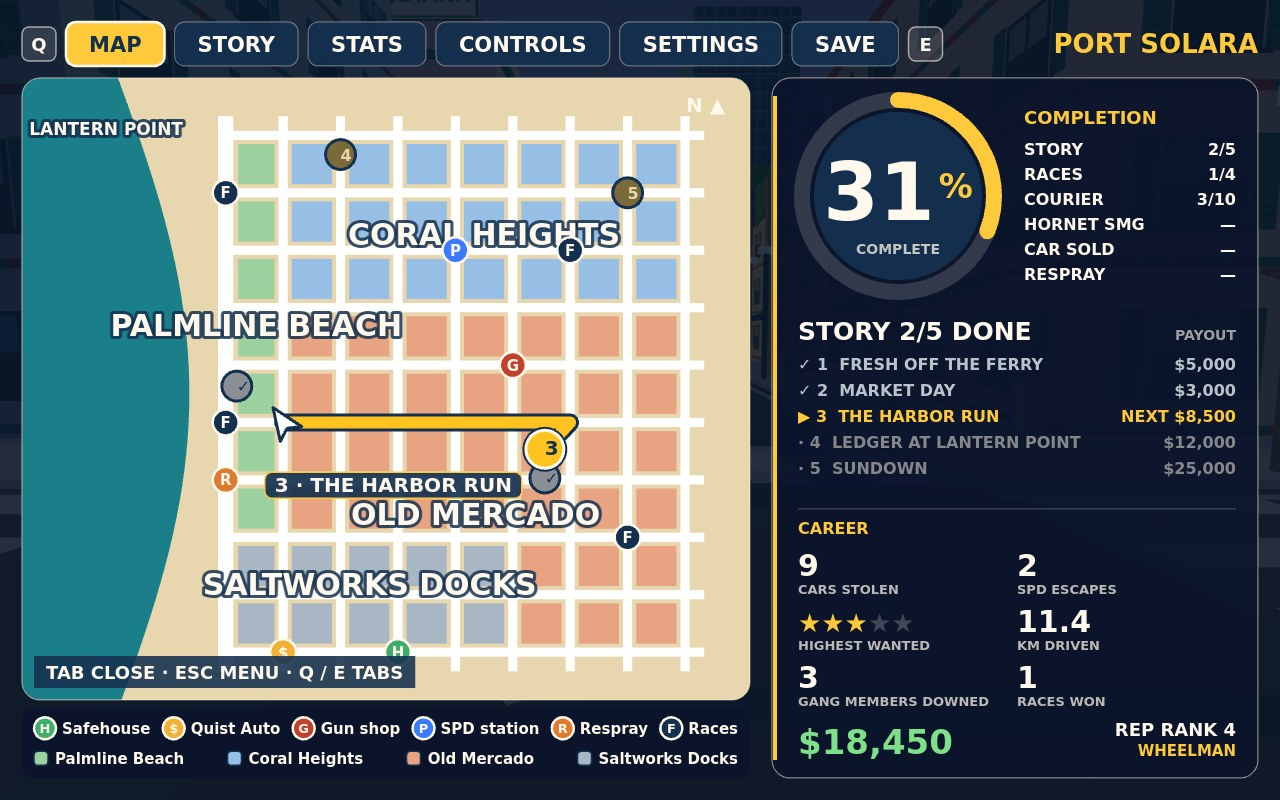
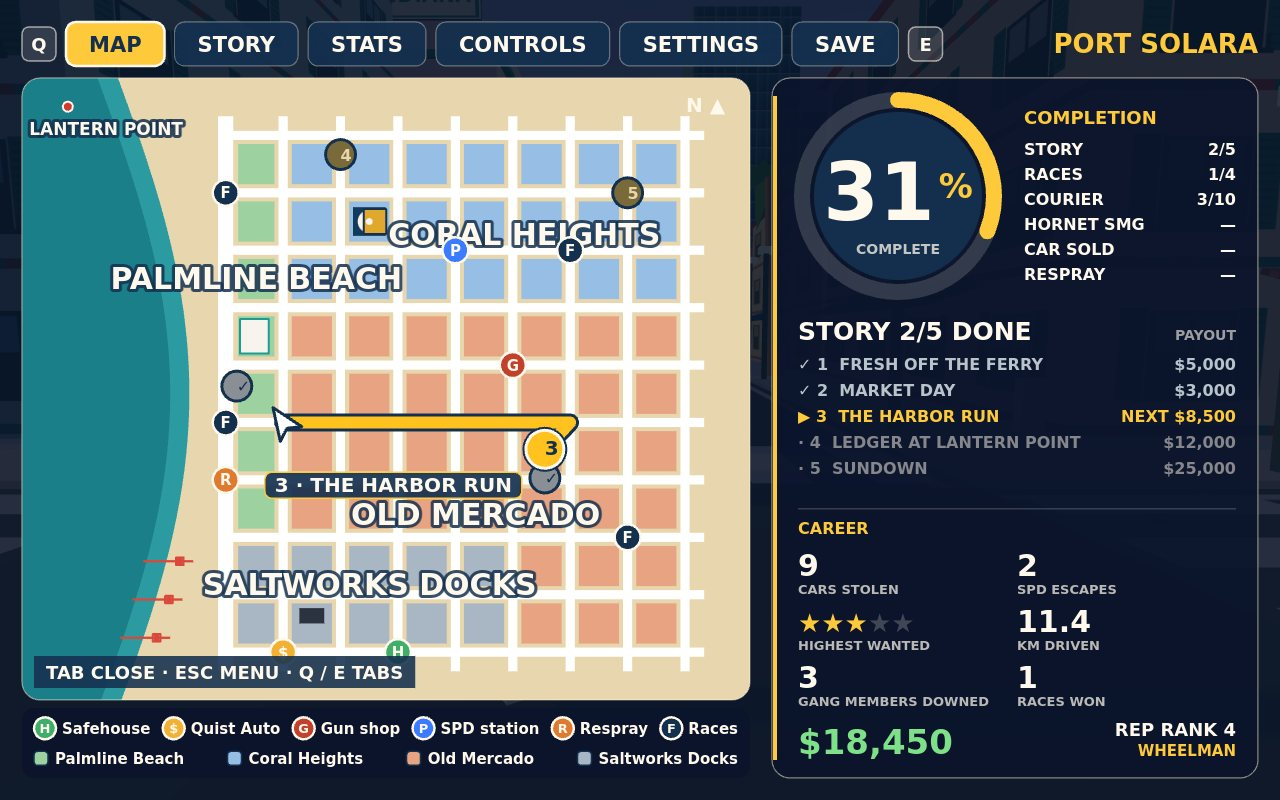
M18 step 2: landmark glyphs at true places and sizes (LANDMARKS / buildLandmarks: Sundial podium 34x30 + needle base r 12 + gold fin 23.5x26 + tip, Hotel Meridiana 30x36 with teal rim, three Saltworks cranes at coastX(z)+14 with 8 m legs, cab and 52 m boom (39.8 x 1.84 px at 1024), Lantern Point lig

Changed region(s): [[0.0312, 0.0938, 0.5312, 0.8438], [0.2188, 0.75, 0.25, 0.7812], [0.0625, 0.8438, 0.0938, 0.875]]

diff --git a/game/src/ui/menus-and-map.js b/game/src/ui/menus-and-map.js
@@ -32,7 +32,7 @@ const SPOT_PLAN = [
 ];
 
 // District names move off the story rings that sit near their middles (metres).
-const LABEL_NUDGE = { mercado: [-30, 75], coral: [0, 25], lantern: [40, 30] };
+const LABEL_NUDGE = { mercado: [-30, 75], coral: [42, 25], lantern: [40, 30], palmline: [0, -50] };
 // Map blocks and title card chips take their district's colour (Lantern Point has no blocks).
 export const DISTRICT_TINT = { palmline: '#9ed1a0', coral: '#97bfe6', mercado: '#e8a382', saltworks: '#a9b7c4', lantern: '#f1c86a' };
 const MAP_HINT = 'TAB CLOSE · ESC MENU · Q / E TABS';
@@ -290,6 +290,10 @@ function drawCityMap(ctx, game, rect, s) {
   ctx.fillRect(rect.x, rect.y, rect.w, rect.h);
   ctx.save();
   ctx.translate(ox, oz); ctx.scale(k, k);
+  // Shallows: the shore line stroked 40 m wide in a lighter teal; the sand covers its landward half.
+  ctx.beginPath();
+  for (let z = minZ - 200; z <= maxZ + 200; z += 10) ctx.lineTo(roads.coastX(z), z);
+  ctx.lineWidth = 40; ctx.lineJoin = 'round'; ctx.strokeStyle = '#2c9aa1'; ctx.stroke();
   ctx.fillStyle = '#e8d6ae';
   ctx.beginPath();
   ctx.moveTo(roads.coastX(minZ - 200), minZ - 200);
@@ -306,6 +310,7 @@ function drawCityMap(ctx, game, rect, s) {
     if (r.axis === 'z') { ctx.moveTo(r.at, r.from); ctx.lineTo(r.at, r.to); } else { ctx.moveTo(r.from, r.at); ctx.lineTo(r.to, r.at); }
     ctx.stroke();
   }
+  drawLandmarkGlyphs(ctx, roads, k, s);
   // GPS: the same lane-graph A* the minimap follows, Wren to the current goal, gold on a navy casing.
   const goal = game.gpsGoal(), route = game.planRoute(game.focus, goal);
   ctx.lineJoin = 'round'; ctx.lineCap = 'round';
@@ -378,6 +383,38 @@ function drawCityMap(ctx, game, rect, s) {
   ctx.restore();
   ctx.lineWidth = 1.2 * s; ctx.strokeStyle = 'rgba(255, 241, 214, 0.5)';
   ctx.beginPath(); ctx.roundRect(rect.x, rect.y, rect.w, rect.h, 18 * s); ctx.stroke();
+}
+
+// The landmarks from above at their true places and sizes (metres, buildLandmarks' boxes); strokes
+// never thinner than 2 px.
+function drawLandmarkGlyphs(ctx, roads, k, s) {
+  const thin = (m) => Math.max(m, (2 * s) / k);
+  // Sundial Tower: navy podium, the white needle's base, the gold fin over it, the needle's tip.
+  const t = LANDMARKS.sundial;
+  ctx.fillStyle = '#123a5e'; ctx.fillRect(t.x - 17, t.z - 15, 34, 30);
+  ctx.fillStyle = '#f7f4ee'; ctx.beginPath(); ctx.arc(t.x, t.z, 12, 0, Math.PI * 2); ctx.fill();
+  ctx.fillStyle = '#e0a92e'; ctx.fillRect(t.x + 6 - 11.75, t.z - 13, 23.5, 26);
+  ctx.lineWidth = thin(1); ctx.strokeStyle = NAVY; ctx.strokeRect(t.x + 6 - 11.75, t.z - 13, 23.5, 26);
+  ctx.fillStyle = '#f7f4ee'; ctx.beginPath(); ctx.arc(t.x, t.z, Math.max(3.5, (3 * s) / k), 0, Math.PI * 2); ctx.fill();
+  // Hotel Meridiana: the white slab with its teal balcony rim.
+  const m = LANDMARKS.meridiana;
+  ctx.fillStyle = '#f7f4ee'; ctx.fillRect(m.x - 15, m.z - 18, 30, 36);
+  ctx.lineWidth = thin(1.5); ctx.strokeStyle = '#1d9c94'; ctx.strokeRect(m.x - 15, m.z - 18, 30, 36);
+  // Quist Auto's dark lot.
+  const q = LANDMARKS.quist;
+  ctx.fillStyle = '#2b3240'; ctx.fillRect(q.x - 13, q.z - 16, 26, 16);
+  // Saltworks cranes on the quay: the 8 m leg square, the cab and the 52 m boom out over the water.
+  ctx.fillStyle = ctx.strokeStyle = '#d9483b';
+  for (const z of [175, 215, 255]) {
+    const x = roads.coastX(z) + 14;
+    ctx.lineWidth = thin(1.4); ctx.strokeRect(x - 4, z - 4, 8, 8);
+    ctx.fillRect(x - 3, z - 4.5, 6, 9);
+    const bw = thin(2.4); ctx.fillRect(x - 38, z - bw / 2, 52, bw);
+  }
+  // Lantern Point lighthouse: a red disc with a white ring, at least 5 px.
+  const l = LANDMARKS.lighthouse, r = Math.max(4, (5 * s) / k);
+  ctx.beginPath(); ctx.arc(l.x, l.z, r, 0, Math.PI * 2);
+  ctx.fillStyle = '#d23a2f'; ctx.fill(); ctx.lineWidth = thin(1.2); ctx.strokeStyle = '#f7f4ee'; ctx.stroke();
 }
 
 // A navy plate with a gold rim naming the mission, placed nearest-first around its ring (8 directions,
